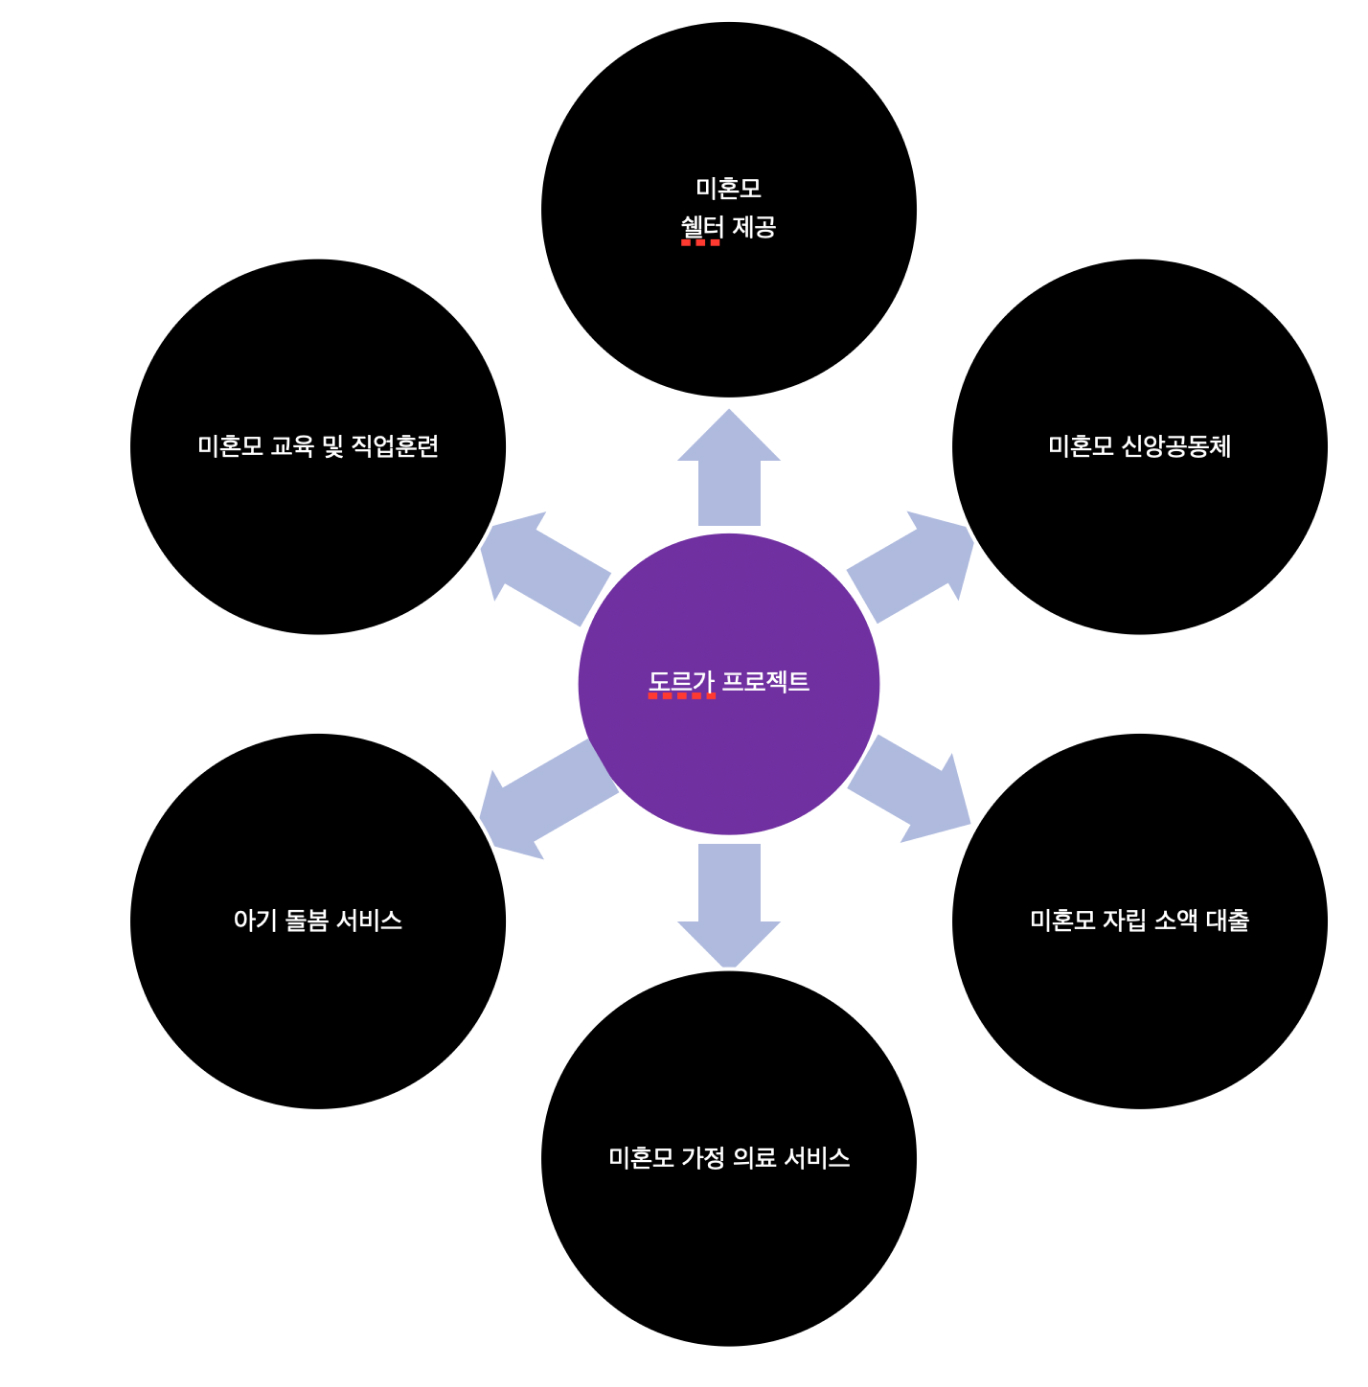
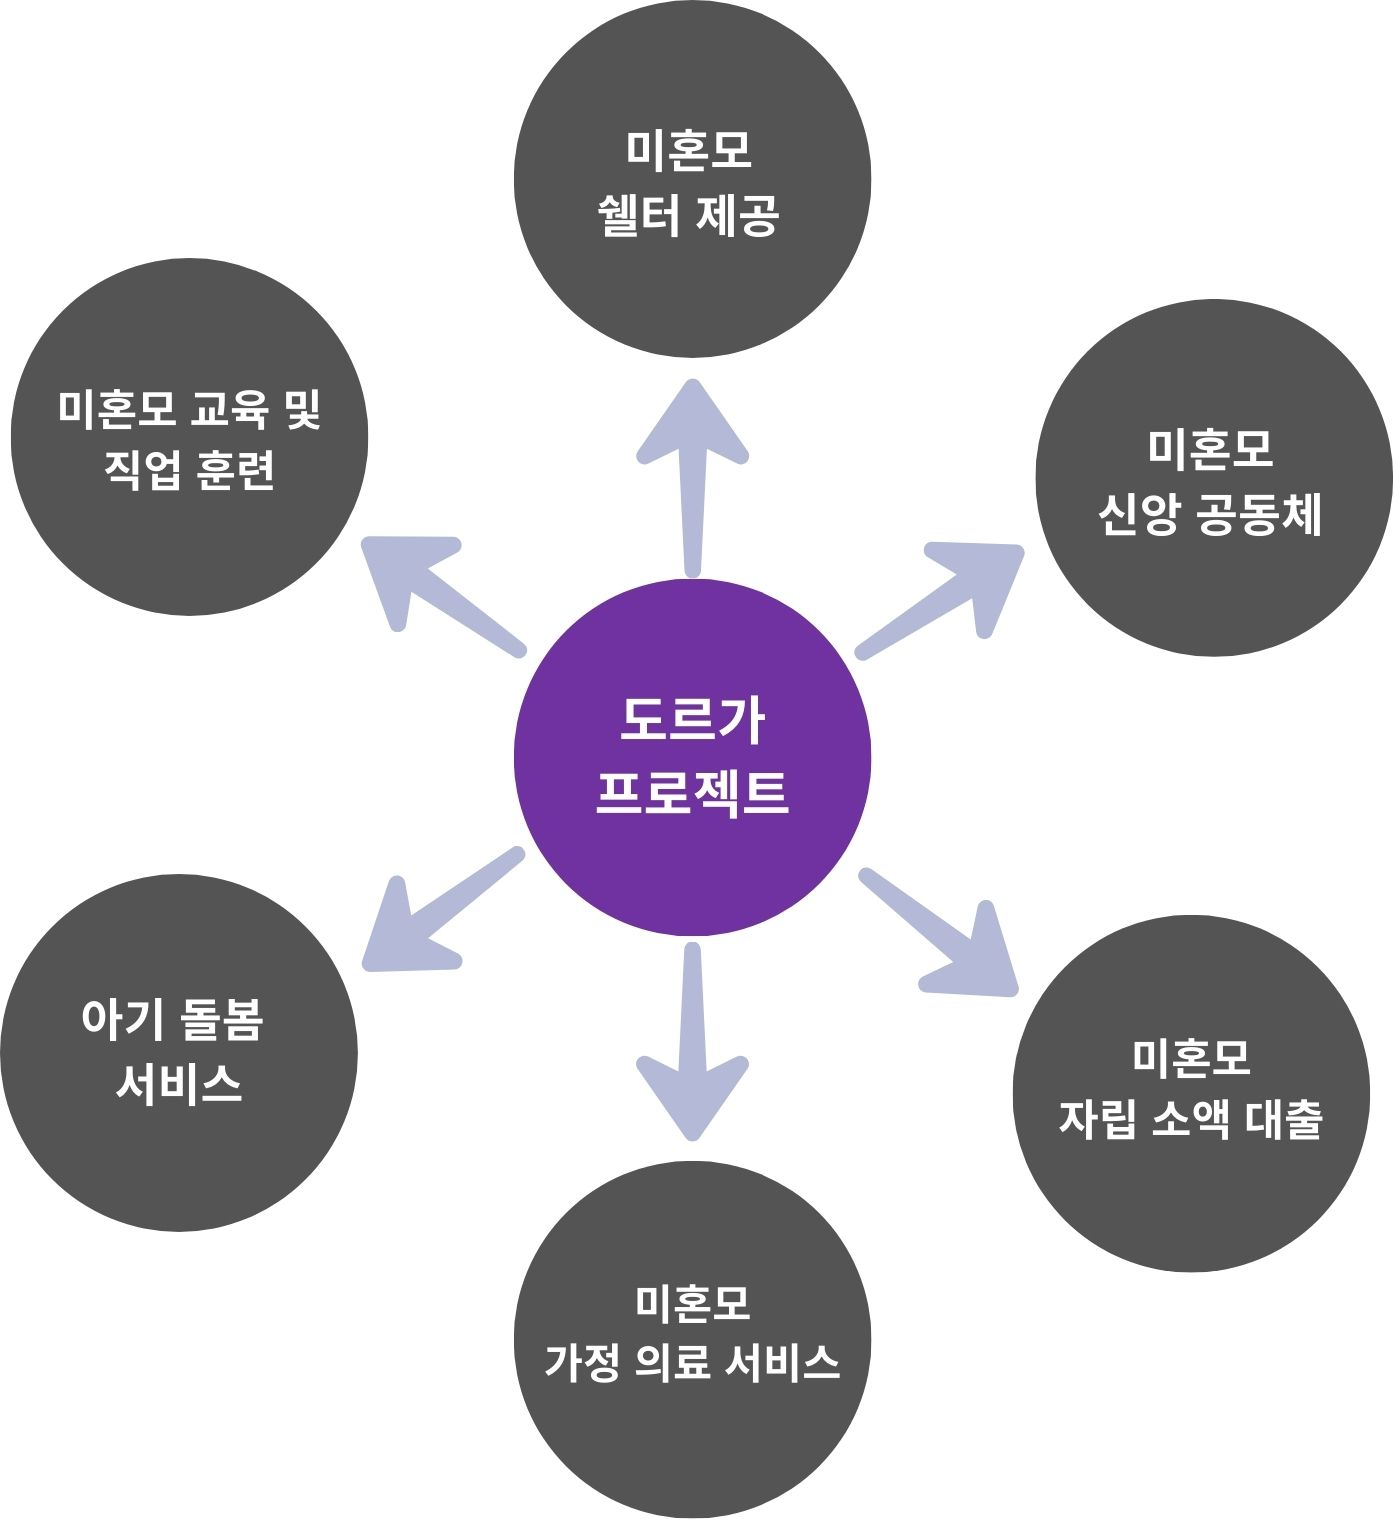
feat: add dominica project

diff --git a/src/pages/project/index.tsx b/src/pages/project/index.tsx
@@ -15,7 +15,7 @@ export default function index() {
             </div>
           </div>
           <div className="w-[600px] text-[45px] font-bold ml-[6vw] mt-[85px] leading-snug text-white">
-            What We do
+            우리는 이런 일을 하고 있어요
           </div>
           <div className="text-[20px] mt-[2vw] ml-[6vw] text-white">
             모든 어린이가 부족함 없이 자랄 수 있도록 돕습니다.
@@ -23,138 +23,190 @@ export default function index() {
         </div>
         <div className="w-[400px]"></div>
       </div>
-      <div className="flex flex-col items-center px-[10vw] py-[5vw]">
-        {/* <div className="flex w-[100vw] h-[80px] items-center font-bold text-[25px] px-[15vw] mt-[30px]">
-          <div
-            className={`w-[50vw] text-center font-NSK  border-r-2 ${
-              isClickRight ? "text-[#F3851D]" : "text-black"
-            } cursor-pointer`}
+      <div className="flex flex-col">
+        <div className="flex justify-center font-bold text-[19px] mt-[50px] mb-[150px] text-center font-NSK gap-[120px]">
+          <button
+            className={`w-[280px] h-[55px] border border-black rounded-full ${
+              isClickRight ? "bg-[#175a41] text-white" : "text-black"
+            }`}
             onClick={() => setIsClickRight(true)}
           >
-            La Gonave Project
-          </div>
-          <div
-            className={`w-[50vw] text-center font-NSK ${
-              isClickRight ? "text-black" : "text-[#F3851D]"
-            } cursor-pointer`}
+            아이티 라고나브
+          </button>
+          <button
+            className={`w-[280px] h-[55px] border border-black rounded-full ${
+              isClickRight ? "text-black" : "bg-[#175a41] text-white"
+            }`}
             onClick={() => setIsClickRight(false)}
           >
-            Dominica Republic
-          </div>
-        </div> */}
-        <div className="flex items-center justify-center">
-          <div className="font-NSK px-[6vw] w-[650px]">
-            <div className="text-[27px] font-extrabold ">소망학교</div>
-            <div className="text-[18px] font-normal mt-[35px]">
-              가난한 섬 라고나브 섬에서 하루 2달러 이하 수입으로 아이들을 학교에
-              보내는 것이 결코 쉽지 않은 상황입니다. 힘겹게 학교를 보내지만
-              열악한 교육 환경과 교육자원의 부재로 아이들이 배우는 것이 매우
-              제한적입니다. 제대로 된 교육이 없으면 아이티 미래는 없을 것입니다.
-              그래서 이들에게 양질의 교육 환경을 제공하는 것이 가장 우선시되는
-              일입니다. 그래서 우리는 지금 쉽지 않은 상황이지만 아이들이
-              안전하게 공부할 수 있는 초. 중고등학교 크리스찬 학교를 짓고
-              있습니다. 이 학교를 통해 청소년들에게 성경을 가르치고 예수의
-              비전을 심어 주고 하나님 나라에 소망을 갖게 하여 이들을 주님의
-              군사로 준비 시키고자 합니다. 이 학교를 통해 이들이 예수님의 소망이
-              되고 이들이 또한 세상의 소망이 되길 고대합니다
-            </div>
-          </div>
-          <Image
-            src={"/image/project-school.jpg"}
-            alt="project-school"
-            width={550}
-            height={550}
-            className="w-[500px] sm:w-[90vw] object-scale-down"
-          />
+            도미니카 공화국
+          </button>
         </div>
-        <div className="flex items-center justify-center mt-[150px]">
-          <Image
-            src={"/image/project-clinic.jpg"}
-            alt="project-school"
-            width={550}
-            height={550}
-            className="w-[500px] sm:w-[90vw] object-scale-down"
-          />
-          <div className="font-NSK px-[6vw] w-[650px]">
-            <div className="text-[27px] font-extrabold ">소망 클리닉</div>
-            <div className="text-[18px] font-normal mt-[60px]">
-              2017년 개원한 소망 클리닉을 통해 의료 인프라가 매우 열악한
-              라고나브 섬에 기초 의료 및 긴급의료, 예방교육 교육과 마을 보건요원
-              훈련 센터로 사용되고 있습니다. 10여명의 의료 스텝들이 주민들에게
-              최상의 의료 서비서를 제공하고 있으며 예방접종, 청소년 의료 보험
-              제도, 최신 의료 장비 등을 갖추고 라고나브 섬에 의료 사역의
-              중추적인 역활을 감당하고 있습니다
+        {isClickRight ? (
+          <>
+            <div className="flex justify-center">
+              <div className="font-NSK pr-[6vw] w-[650px]">
+                <div className="text-[27px] font-extrabold ">소망학교</div>
+                <div className="text-[18px] font-normal mt-[35px]">
+                  가난한 섬 라고나브 섬에서 하루 2달러 이하 수입으로 아이들을
+                  학교에 보내는 것이 결코 쉽지 않은 상황입니다. 힘겹게 학교를
+                  보내지만 열악한 교육 환경과 교육자원의 부재로 아이들이 배우는
+                  것이 매우 제한적입니다. 제대로 된 교육이 없으면 아이티 미래는
+                  없을 것입니다. 그래서 이들에게 양질의 교육 환경을 제공하는
+                  것이 가장 우선시되는 일입니다. 그래서 우리는 지금 쉽지 않은
+                  상황이지만 아이들이 안전하게 공부할 수 있는 초. 중고등학교
+                  크리스찬 학교를 짓고 있습니다. 이 학교를 통해 청소년들에게
+                  성경을 가르치고 예수의 비전을 심어 주고 하나님 나라에 소망을
+                  갖게 하여 이들을 주님의 군사로 준비 시키고자 합니다. 이 학교를
+                  통해 이들이 예수님의 소망이 되고 이들이 또한 세상의 소망이
+                  되길 고대합니다
+                </div>
+              </div>
+              <Image
+                src={"/image/project-school.jpg"}
+                alt="project-school"
+                width={550}
+                height={550}
+                className="w-[500px] sm:w-[90vw] object-scale-down"
+              />
             </div>
-          </div>
-        </div>
-        <div className="flex items-center justify-center mt-[150px]">
-          <div className="font-NSK px-[6vw] w-[650px]">
-            <div className="text-[27px] font-extrabold ">
-              도르가 미혼모 사역
+            <div className="flex justify-center mt-[150px]">
+              <Image
+                src={"/image/project-clinic.jpg"}
+                alt="project-school"
+                width={550}
+                height={550}
+                className="w-[500px] sm:w-[90vw] object-scale-down"
+              />
+              <div className="font-NSK pl-[6vw] w-[600px]">
+                <div className="text-[27px] font-extrabold ">소망 클리닉</div>
+                <div className="text-[18px] font-normal mt-[60px]">
+                  2017년 개원한 소망 클리닉을 통해 의료 인프라가 매우 열악한
+                  라고나브 섬에 기초 의료 및 긴급의료, 예방교육 교육과 마을
+                  보건요원 훈련 센터로 사용되고 있습니다. 10여명의 의료 스텝들이
+                  주민들에게 최상의 의료 서비서를 제공하고 있으며 예방접종,
+                  청소년 의료 보험 제도, 최신 의료 장비 등을 갖추고 라고나브
+                  섬에 의료 사역의 중추적인 역활을 감당하고 있습니다
+                </div>
+              </div>
             </div>
-            <div className="text-[18px] font-normal mt-[35px]">
-              라고나브와 같이 매우 가난한 지역에서는 여자 아이들 경우 적절한
-              가정의 보호가 없어 쉽게 성적 폭행 당하게 되는 경우가 많고 식량을
-              얻기 위해 일찍 남자와 동거함으로 임신을 일찍 하게 됩니다. 이
-              곳에서 미성년으로 미혼모가 된다는 것은 가정에서 버림받고 사회적,
-              경제적 고립되며 학업도 중단하며 아무것도 할 수 없는 평생 어려움
-              가운데 살아가게 된다는 뜻입니다.이들은 또한 자녀들을 제대로
-              교육시킬 수 없고 적절한 의료 서비스도 받을 수 없는 상황이어서
-              절대적으로 외부의 도움 없이는 생존 할 수 없는 상황이 됩니다.
-              도르가 사역을 통해 절망과 무력감 가운데 있는 미성년 싱글 맘들에게
-              영적, 정서적, 물질적 적절한 도움을 주어 스스로 그들의 가정을
-              지키며 아름다운 신앙 공동체를 이루어 나가길 소망합니다
+            <div className="flex justify-center mt-[150px]">
+              <div className="font-NSK pr-[6vw] w-[600px]">
+                <div className="text-[27px] font-extrabold ">
+                  도르가 미혼모 사역
+                </div>
+                <div className="text-[18px] font-normal mt-[35px]">
+                  라고나브와 같이 매우 가난한 지역에서는 여자 아이들 경우 적절한
+                  가정의 보호가 없어 쉽게 성적 폭행 당하게 되는 경우가 많고
+                  식량을 얻기 위해 일찍 남자와 동거함으로 임신을 일찍 하게
+                  됩니다. 이 곳에서 미성년으로 미혼모가 된다는 것은 가정에서
+                  버림받고 사회적, 경제적 고립되며 학업도 중단하며 아무것도 할
+                  수 없는 평생 어려움 가운데 살아가게 된다는 뜻입니다.이들은
+                  또한 자녀들을 제대로 교육시킬 수 없고 적절한 의료 서비스도
+                  받을 수 없는 상황이어서 절대적으로 외부의 도움 없이는 생존 할
+                  수 없는 상황이 됩니다. 도르가 사역을 통해 절망과 무력감 가운데
+                  있는 미성년 싱글 맘들에게 영적, 정서적, 물질적 적절한 도움을
+                  주어 스스로 그들의 가정을 지키며 아름다운 신앙 공동체를 이루어
+                  나가길 소망합니다
+                </div>
+              </div>
+              <Image
+                src={"/image/project-dorega.jpg"}
+                alt="project-school"
+                width={550}
+                height={550}
+                className="w-[500px] sm:w-[90vw] object-scale-down"
+              />
             </div>
-          </div>
-          <Image
-            src={"/image/project-dorega.jpg"}
-            alt="project-school"
-            width={550}
-            height={550}
-            className="w-[500px] sm:w-[90vw] object-scale-down"
-          />
-        </div>
-        <div className="w-[900px] font-NSK mt-[100px] flex flex-col items-center">
-          <div className="text-[23px] font-semibold mb-[50px]">
-            {"< 도르가 미혼모 사역의 목적 >"}
-          </div>
-          <div className="text-[18px] whitespace-pre-wrap leading-loose mb-[50px]">
-            {`(1) 아이티 라고나브 섬, 미성년 미혼모들에게 적절한 직업 훈련과 경제 생계 유지에 필요한 식량과 의료 서비스를 제공한다 
+            <div className="font-NSK mt-[100px] flex flex-col justify-center items-center">
+              <div className="text-[25px] font-semibold mb-[50px]">
+                도르가 미혼모 사역의 목적
+              </div>
+              <div className="text-[17px] whitespace-pre-wrap leading-loose mb-[50px]">
+                {`(1) 아이티 라고나브 섬, 미성년 미혼모들에게 적절한 직업 훈련과 경제 생계 유지에 필요한 식량과 의료 서비스를 제공한다 
 (2) 미혼모 가정을 돕고 지지하여 건강한 가정을 만들게 한다 
 (3) 여성들의 자립 경제 활동 지원을 통해 지역 경제 활성을 돕는다 
 (4) 미혼모 신앙 공동체를 통해 소외된 여성들을 참된 그리스도의 제자로 만든다`}
-          </div>
-          <Image
-            src={"/image/dorega-graph.jpg"}
-            alt="project-school"
-            width={550}
-            height={550}
-            className="w-[500px] sm:w-[90vw] object-scale-down"
-          />
-        </div>
-        <div className="flex items-center justify-center mt-[150px]">
-          <Image
-            src={"/image/project-disability.jpg"}
-            alt="project-school"
-            width={550}
-            height={550}
-            className="w-[450px] sm:w-[90vw] object-scale-down"
-          />
-          <div className="font-NSK px-[6vw] w-[650px]">
-            <div className="text-[27px] font-extrabold ">
-              만나 프로젝트 (장애우 사역)
+              </div>
+              <Image
+                src={"/image/dorega-graph.jpg"}
+                alt="project-school"
+                width={550}
+                height={550}
+                className="w-[400px] sm:w-[90vw] object-scale-down"
+              />
             </div>
-            <div className="text-[18px] font-normal mt-[60px]">
-              만나프로젝트는 아이티 라고나브 섬에 방치되어 있고 절대 빈곤 있는
-              지극히 작은 자들 맹인, 지체 부자유자, 거지, 정신 이상 등의 많은
-              장애우들이 있습니다. 아무도 돌봐 줄 사람이 없어 육신적으로,
-              정서적, 영적으로 매우 취약한 환경에 놓여 있습니다. 이들에게
-              정기적인 기초 식량 공급과 의료 서비스, 돌봄이 매우 필요한
-              상황입니다. 이들을 정기적으로 찾아가 그들을 주님의 손길로 돕고
-              섬기는 사역입니다
+            <div className="flex justify-center mt-[150px]">
+              <Image
+                src={"/image/project-disability.jpg"}
+                alt="project-school"
+                width={550}
+                height={550}
+                className="w-[450px] sm:w-[90vw] object-scale-down"
+              />
+              <div className="font-NSK pl-[6vw] w-[600px]">
+                <div className="text-[27px] font-extrabold ">
+                  만나 프로젝트 (장애우 사역)
+                </div>
+                <div className="text-[18px] font-normal mt-[60px]">
+                  만나프로젝트는 아이티 라고나브 섬에 방치되어 있고 절대 빈곤
+                  있는 지극히 작은 자들 맹인, 지체 부자유자, 거지, 정신 이상
+                  등의 많은 장애우들이 있습니다. 아무도 돌봐 줄 사람이 없어
+                  육신적으로, 정서적, 영적으로 매우 취약한 환경에 놓여 있습니다.
+                  이들에게 정기적인 기초 식량 공급과 의료 서비스, 돌봄이 매우
+                  필요한 상황입니다. 이들을 정기적으로 찾아가 그들을 주님의
+                  손길로 돕고 섬기는 사역입니다
+                </div>
+              </div>
             </div>
-          </div>
-        </div>
+          </>
+        ) : (
+          <>
+            <div className="font-NSK m-auto px-[20vw] mb-[100px]">
+              <div className="text-[27px] font-extrabold ">
+                도미니카 공화국 산티아고에서는...
+              </div>
+              <div className="text-[18px] font-normal mt-[60px]">
+                최근 몇 년간 치안부재와 갱단에 의해 아이티의 국가 시스템이 거의
+                다 붕괴가 된 상태입니다. 이로 인해 현재 아이티 사람들은 극심한
+                고립과 굶주림, 경제적 빈곤과 살해 위협 가운데 살고 있으며 이로
+                인해 100만명 가까운 사람들이 이웃나라인 도미니카 공화국으로
+                이주하여 살고 있지만 불법 이주로 인해 많은 차별과 인권침해가
+                만연하고 있습니다. 특히 이주자의 70% 이상이 정식 비자 서류가
+                없어 많은 사람들이 의료와 교육 혜택을 제대로 받을 수가 없는 매우
+                심각한 상황에 처해 있습니다. 신분과 재정 문제로 아파도 제대로
+                병원에서 치료 받을 수 없으며 자녀들은 제대로 교육을 받을 수 없는
+                환경이며, 이들에게 적절한 의료서비스 제공과 양질의 아동교육
+                지원을 통하여 삶의 질을 향상시키고, 건강한 공동체를 만들고
+                미래에 대한 희망을 갖게 하고자 한다.
+              </div>
+              <div className="text-[27px] font-extrabold mt-[100px]">
+                Clinic de salud integral (CSI)
+              </div>
+              <div className="text-[18px] font-normal my-[60px] whitespace-pre-wrap leading-relaxed">
+                Oak Tree Ministry 팀은 아이티 라고나브 섬 사역과 함께 또한
+                도미니카 공화국에 거주하는 아이티 이주민들의 건강한 삶을 누리기
+                위해 산티아고 외곽지역인 Pontezuela 에 작은 클리닉을 운영하면서
+                아래 사역들을 진행하고 있습니다.
+                {`
+                
+
+1. 소외된 아이티인의 건강한 삶을 위한 이동 진료 
+2. 현지에서 교육받은 아이티 의료인 임상실습 기회 제공 
+3. 진료공백 보완을 위한 SNS를 통한 긴급 의료 지원 
+4. 향상된 보건환경 구축을 위한 주민 기초 의료 교육 
+5. 아동 교육 기회 확대를 위한 프로그램 운영`}
+              </div>
+              <Image
+                src={"/image/pontezuela.jpg"}
+                alt="pontezuela"
+                width={550}
+                height={550}
+                className="w-[900px] sm:w-[90vw] object-scale-down"
+              />
+            </div>
+          </>
+        )}
       </div>
     </div>
   );
